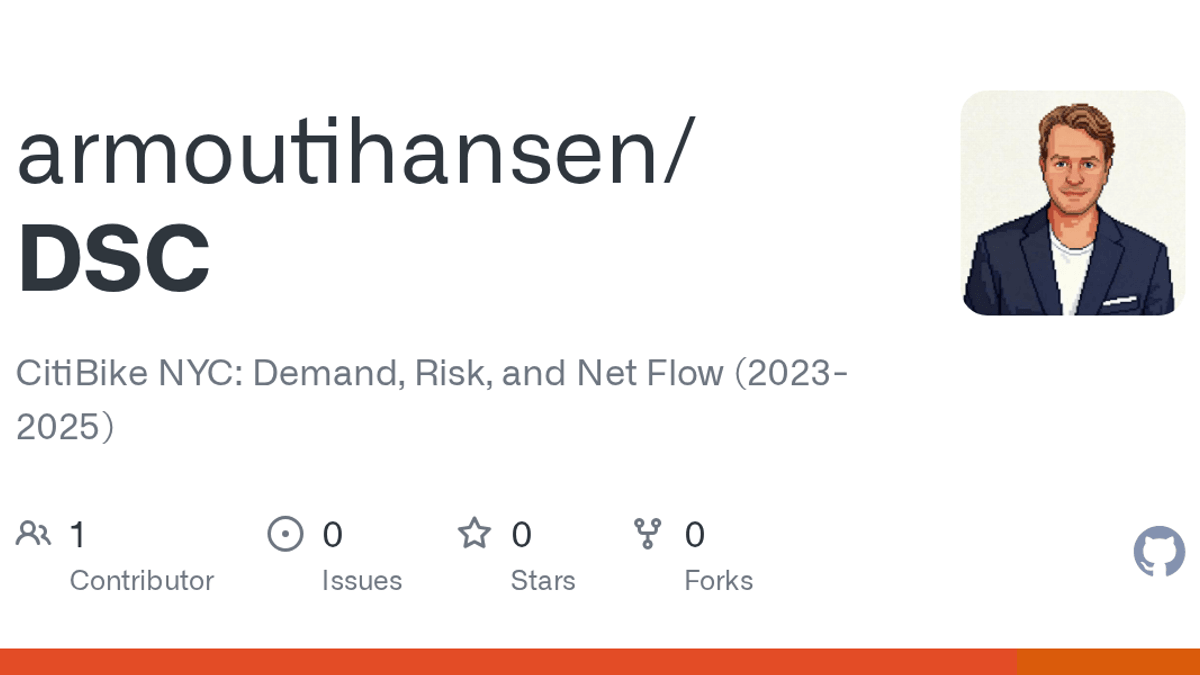
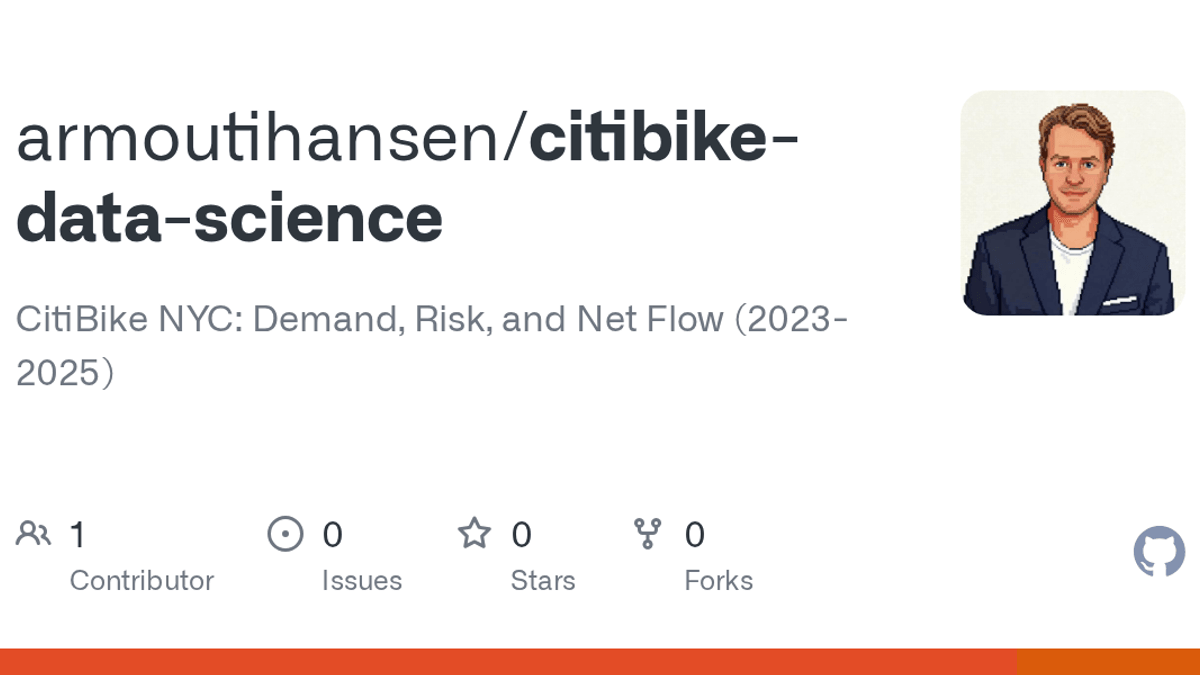
Update commit message generation instructions

Changed region(s): [[0.0, 0.1556, 0.7092, 0.4978], [0.0, 0.5289, 0.7092, 0.6533]]

diff --git a/src/data/projects.ts b/src/data/projects.ts
@@ -19,7 +19,7 @@ export const projects = [
     methods: ["Python", "machine learning", "economic theory", "model evaluation"],
     image: "/images/projects/economic-theories-ml.png",
     imageAlt: "GitHub social preview for the Economic Theories and Machine Learning repository",
-    href: "https://github.com/armoutihansen/EETML"
+    href: "https://github.com/armoutihansen/econ-theories-ml"
   },
   {
     title: "CitiBike Demand, Risk, and Net Flow Analysis",
@@ -29,7 +29,7 @@ export const projects = [
       "Demand, risk, and net-flow analysis of CitiBike NYC from 2023 to 2025, using trip and collision data to examine usage patterns, station-level risk, and operational dynamics.",
     methods: ["data science", "data cleaning", "feature engineering", "machine learning"],
     image: "/images/projects/citibike.png",
-    imageAlt: "GitHub social preview for the CitiBike Demand, Risk, and Net Flow Analysis repository",
+    imageAlt: "GitHub social preview for the citibike-data-science repository",
     href: "/DSC/"
   },
   {
@@ -74,7 +74,7 @@ export const projects = [
     methods: ["Python", "Markdown", "HTML", "CSS", "unit testing"],
     image: "/images/projects/static-site-generator.png",
     imageAlt: "GitHub social preview for the Static Site Generator repository",
-    href: "https://github.com/armoutihansen/ssg"
+    href: "https://github.com/armoutihansen/static-site-generator"
   },
   {
     title: "Maze Solver",
@@ -85,7 +85,7 @@ export const projects = [
     methods: ["Python", "algorithms", "depth-first search", "pathfinding", "tkinter"],
     image: "/images/projects/maze-solver.png",
     imageAlt: "GitHub social preview for the Maze Solver repository",
-    href: "https://github.com/armoutihansen/maze_solver"
+    href: "https://github.com/armoutihansen/maze-solver"
   },
   {
     title: "Build AI Agent",